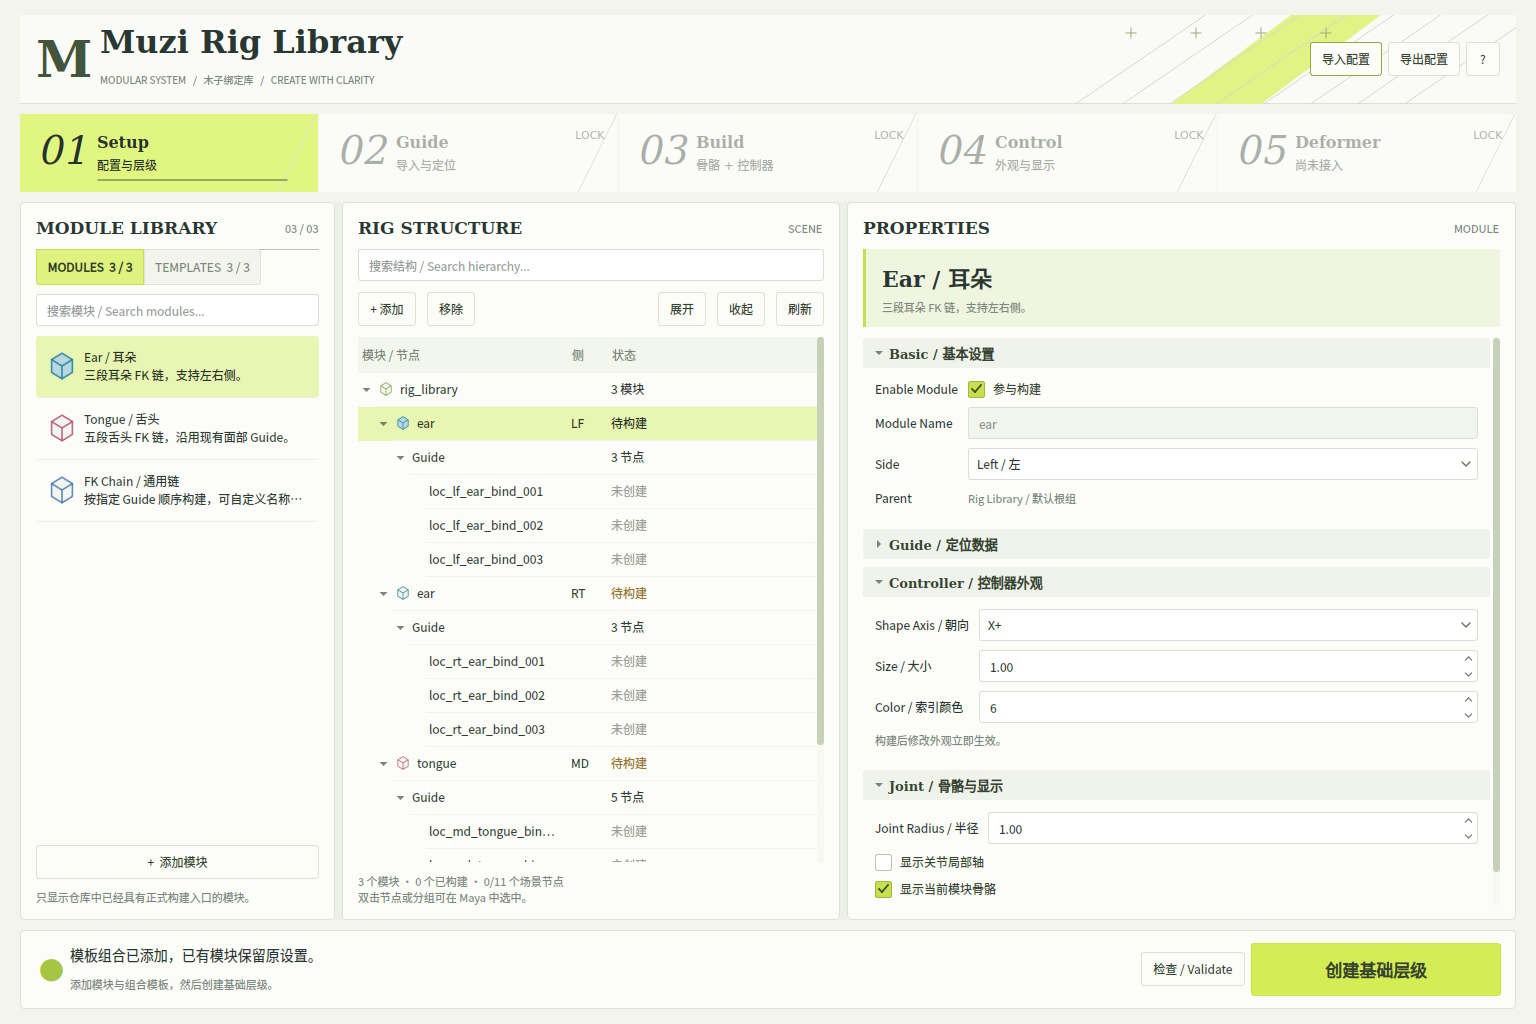
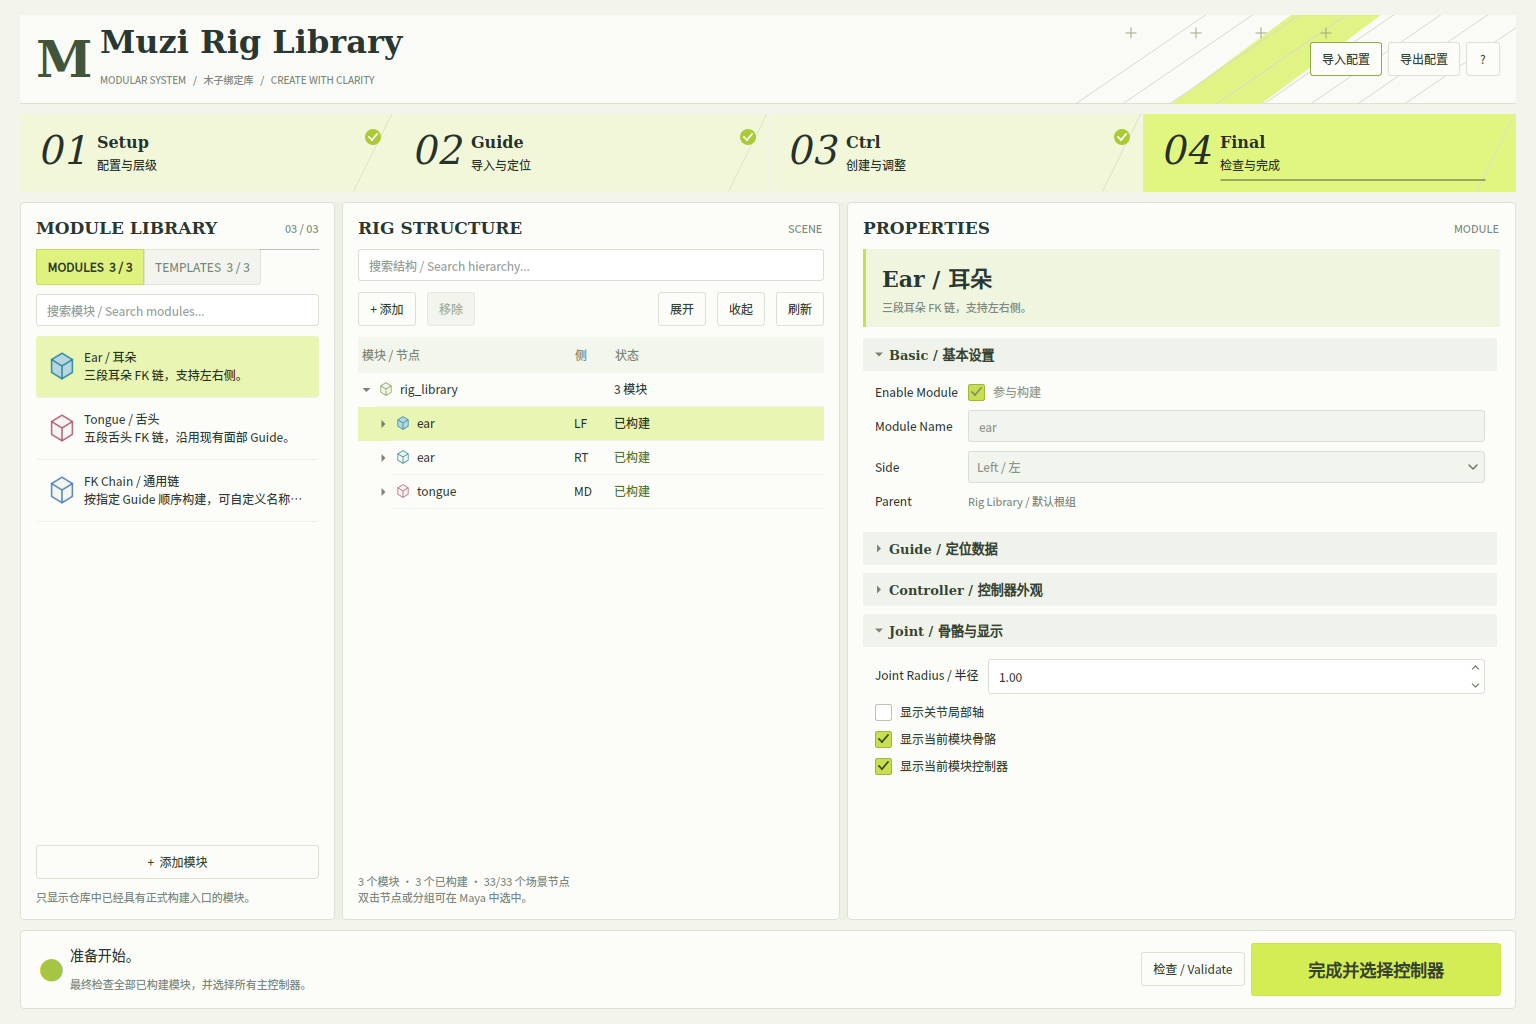
feat: simplify rig library workflow to four steps

diff --git a/systems/rig/ui/modular_rig_ui.py b/systems/rig/ui/modular_rig_ui.py
@@ -1,5 +1,5 @@
 # coding=utf-8
-u"""Muzi 绑定库：五步导航、模块与模板目录、场景结构和可折叠属性。"""
+u"""Muzi 绑定库：四步导航、模块与模板目录、场景结构和可折叠属性。"""
 
 from functools import partial
 
@@ -88,7 +88,7 @@ class ModularRigWindow(QtWidgets.QWidget):
         header_layout.addStretch(1)
         self.import_button = button(u"导入配置", self.import_recipe, u"追加 JSON 模块配置")
         self.export_button = button(u"导出配置", self.export_recipe, u"保存模块参数；不包含 Maya 场景或 Guide 位置")
-        self.help_button = button("?", self.show_help, u"查看五步操作说明")
+        self.help_button = button("?", self.show_help, u"查看四步操作说明")
         self.help_button.setFixedWidth(34)
         header_layout.addWidget(self.import_button)
         header_layout.addWidget(self.export_button)
@@ -99,12 +99,10 @@ class ModularRigWindow(QtWidgets.QWidget):
         steps.setSpacing(1)
         self.step_buttons = []
         entries = (("Setup", u"配置与层级"), ("Guide", u"导入与定位"),
-                   ("Build", u"骨骼 + 控制器"), ("Control", u"外观与显示"), ("Deformer", u"尚未接入"))
+                   ("Ctrl", u"创建与调整"), ("Final", u"检查与完成"))
         for index, (title, subtitle) in enumerate(entries, 1):
             widget = StepButton(index, title, subtitle)
             widget.clicked.connect(partial(self.set_step, index))
-            if index == 5:
-                widget.setToolTip(u"当前模块尚未提供 Deformer 构建接口。")
             self.step_buttons.append(widget)
             steps.addWidget(widget, 1)
         main.addLayout(steps)
@@ -293,6 +291,7 @@ class ModularRigWindow(QtWidgets.QWidget):
         layout.addWidget(guides)
 
         controls = Section("Controller / 控制器外观")
+        self.control_section = controls
         self.axis_combo = QtWidgets.QComboBox()
         self.axis_combo.addItems(catalog.axes)
         controls.form.addRow(u"Shape Axis / 朝向", self.axis_combo)
@@ -631,7 +630,7 @@ class ModularRigWindow(QtWidgets.QWidget):
         self._run(lambda: self.service.update_module(self.current_id, {"guides": names}), u"Guide 列表已保存。")
 
     def set_step(self, number, *args):
-        u"""五段导航对应真实能力，构建由现有 Module 一次完成骨骼和控制器。"""
+        u"""四段导航对应真实能力，Ctrl 阶段一次完成骨骼和控制器。"""
         workflow = self.service.workflow_state()
         if not workflow["unlocked"].get(number, False):
             self._status(u"当前阶段尚未解锁，请先完成前一步。", error=True)
@@ -646,6 +645,7 @@ class ModularRigWindow(QtWidgets.QWidget):
         if not workflow["unlocked"].get(self.current_step, False):
             self.current_step = workflow["suggested"]
         self.guide_section.button.setChecked(self.current_step == 2)
+        self.control_section.button.setChecked(self.current_step == 3)
         for index, widget in enumerate(self.step_buttons, 1):
             if index == self.current_step:
                 state = "current"
@@ -660,17 +660,15 @@ class ModularRigWindow(QtWidgets.QWidget):
     def _update_action(self):
         if not hasattr(self, "build_button"):
             return
-        texts = {1: u"创建基础层级", 2: u"导入 Face Guide", 3: u"构建启用模块", 4: u"选择当前控制器"}
+        texts = {1: u"创建基础层级", 2: u"导入 Face Guide", 3: u"创建控制系统", 4: u"完成并选择控制器"}
         hints = {1: u"添加模块与组合模板，然后创建基础层级。",
                  2: u"耳朵与舌头使用 Face Guide；通用 FK 请指定有序 Guide。",
-                 3: u"一次创建骨骼、控制器及驱动连接；已构建模块自动跳过。",
-                 4: u"右侧大小、颜色、轴向与显示参数会立即应用到当前模块。"}
+                 3: u"创建骨骼、控制器与驱动连接；右侧参数可实时调整外观。",
+                 4: u"最终检查全部已构建模块，并选择所有主控制器。"}
         self.build_button.setText(texts[self.current_step])
         self.status_hint.setText(hints[self.current_step])
-        enabled = bool(self.service.document["modules"])
-        if self.current_step == 4:
-            record = self.current_record()
-            enabled = record is not None and record["built"]
+        workflow = self.service.workflow_state()
+        enabled = bool(self.service.document["modules"]) and workflow["unlocked"].get(self.current_step, False)
         self.build_button.setEnabled(enabled)
 
     def run_step(self):
@@ -682,13 +680,12 @@ class ModularRigWindow(QtWidgets.QWidget):
             if self._run(self.service.import_guide, u"Face Guide 已就绪，请在 Maya 中检查并调整位置。"):
                 self.set_step(3)
         elif self.current_step == 3:
-            if self._run(self.service.build, lambda count: u"构建完成：{} 个新模块。".format(count)):
+            if self._run(self.service.build, lambda count: u"Ctrl 完成：{} 个新模块。".format(count)):
                 self.build_requested.emit("all")
                 self.set_step(4)
         elif self.current_step == 4:
-            record = self.current_record()
-            if record:
-                self.service.select_nodes(catalog.output_names(record)["controls"])
+            self._run(self.service.finalize,
+                      lambda count: u"Final 完成：已检查并选择 {} 个主控制器。".format(count))
 
     def validate_scene(self):
         u"""显示只读预检查结果。"""
@@ -726,9 +723,8 @@ class ModularRigWindow(QtWidgets.QWidget):
         u"""说明真实支持范围以及各阶段操作。"""
         QtWidgets.QMessageBox.information(self, u"绑定库使用说明", u"1. 添加 Ear、Tongue、FK Chain，或添加模板组合。\n"
             u"2. Setup 创建根组；Guide 导入仓库现有 Face Guide。\n"
-            u"3. 在 Maya 中调整 Guide，再点击 Validate 和 Build。\n"
-            u"4. Build 一次创建骨骼和控制器；Control 调整外观。\n"
-            u"5. Deformer 尚未接入。\n\n"
+            u"3. 在 Maya 中调整 Guide，再点击 Validate；Ctrl 创建骨骼和控制器并调整外观。\n"
+            u"4. Final 检查全部模块并选择主控制器。\n\n"
             u"配置随 Maya 场景保存；JSON 只保存模块参数，不包含绑定或 Guide 位置。\n"
             u"通用 FK 按文本行顺序读取 Guide。已构建模块锁定身份与定位输入。\n"
             u"当前版本支持根命名空间中的一套绑定库。")

diff --git a/systems/rig/library_service.py b/systems/rig/library_service.py
@@ -190,7 +190,7 @@ class RigLibraryService(object):
         self._commit(self.document, apply, "Muzi Import Face Guide")
 
     def workflow_state(self):
-        u"""返回五步导航需要的场景状态，不创建或修改任何 Maya 节点。"""
+        u"""返回四步导航需要的场景状态，不创建或修改任何 Maya 节点。"""
         records = []
         for record in self.document["modules"]:
             if record["enabled"]:
@@ -243,14 +243,12 @@ class RigLibraryService(object):
                 2: guide_complete,
                 3: build_complete,
                 4: False,
-                5: False,
             },
             "unlocked": {
                 1: True,
                 2: setup_complete,
                 3: guide_complete,
                 4: build_complete,
-                5: False,
             },
             "suggested": 4 if build_complete else 3 if guide_complete else 2 if setup_complete else 1,
         }
@@ -324,7 +322,7 @@ class RigLibraryService(object):
         return builder
 
     def build(self):
-        u"""Step 03：一次构建所有启用的待建模块；已有绑定不会再次运行 build。"""
+        u"""Step 03 Ctrl：构建所有启用的待建模块；已有绑定不会再次运行。"""
         errors = self.validate()
         if errors:
             raise RuntimeError("\n".join(errors))
@@ -354,6 +352,21 @@ class RigLibraryService(object):
 
         self._commit(self.document, apply, "Muzi Build Modules")
         return len(pending)
+
+    def finalize(self):
+        u"""Step 04 Final：检查完整性并选择全部已构建主控制器。"""
+        errors = self.validate()
+        if errors:
+            raise RuntimeError("\n".join(errors))
+        controls = []
+        for record in self.document["modules"]:
+            if not record["enabled"] or not record["built"]:
+                continue
+            output = catalog.output_names(record)
+            for name in output["controls"]:
+                controls.append(name)
+        self.select_nodes(controls)
+        return len(controls)
 
     def _apply_display(self, record, previous=None):
         u"""只修改本模块的显示属性和 Curve CV，保留控制器位置与连接。"""

diff --git a/tests/rig_library_qt_test.py b/tests/rig_library_qt_test.py
@@ -56,12 +56,17 @@ class RigLibraryQtTests(unittest.TestCase):
         self.window.set_step(3)
         self.window.run_step()
         self.assertEqual(self.window.current_step, 4)
+        self.assertEqual(len(self.window.step_buttons), 4)
+        self.assertEqual([step.title for step in self.window.step_buttons],
+                         ["Setup", "Guide", "Ctrl", "Final"])
         self.assertFalse(self.window.remove_button.isEnabled())
         self.assertFalse(self.window.side_combo.isEnabled())
-        self.assertFalse(self.window.step_buttons[4].isEnabled())
         self.window.size_spin.setValue(2.3)
         self.assertEqual(self.service.document["modules"][0]["ctrl_size"], 2.3)
         self.assertEqual(len(self.service.calls), 3)
+        self.window.run_step()
+        self.assertEqual(len(self.service.cmds.selection), 11)
+        self.assertIn("Final", self.window.status_label.text())
 
     def test_undo_refresh_reloads_config(self):
         self.window.add_selected_template()
@@ -121,6 +126,7 @@ class RigLibraryQtTests(unittest.TestCase):
         self.service.setup()
         self.window.set_step(2)
         self.assertTrue(self.window.guide_section.button.isChecked())
+        self.assertFalse(self.window.control_section.button.isChecked())
         self.window.set_step(4)
         self.assertEqual(self.window.current_step, 2)
 

diff --git a/tests/rig_library_test.py b/tests/rig_library_test.py
@@ -27,6 +27,7 @@ class FakeCommands:
         self.undo_enabled = True
         self.namespace = ":"
         self.undo_count = 0
+        self.selection = []
 
     def objExists(self, name):
         return name in self.nodes
@@ -72,6 +73,9 @@ class FakeCommands:
 
     def ls(self, name, **kwargs):
         return [name] if name in self.nodes else []
+
+    def select(self, names, replace=True):
+        self.selection = list(names)
 
 
 class ServiceFixture(RigLibraryService):
@@ -143,6 +147,9 @@ class RigLibraryTests(unittest.TestCase):
         self.assertTrue(state["completed"][3])
         self.assertTrue(state["unlocked"][4])
         self.assertEqual(state["suggested"], 4)
+        self.assertEqual(set(state["unlocked"]), {1, 2, 3, 4})
+        self.assertEqual(self.service.finalize(), 11)
+        self.assertEqual(len(self.commands.selection), 11)
 
     def test_duplicate_names_are_rejected_atomically(self):
         self.service.add_template("ear_pair")

diff --git a/systems/rig/ui/library_widgets.py b/systems/rig/ui/library_widgets.py
@@ -60,7 +60,7 @@ class ArtHeader(QtWidgets.QFrame):
 
 
 class StepButton(QtWidgets.QPushButton):
-    u"""顶部五步导航，以清晰数字和切角高亮呈现当前操作阶段。"""
+    u"""顶部四步导航，以清晰数字和切角高亮呈现当前操作阶段。"""
 
     def __init__(self, number, title, subtitle, parent=None):
         super(StepButton, self).__init__(parent)
